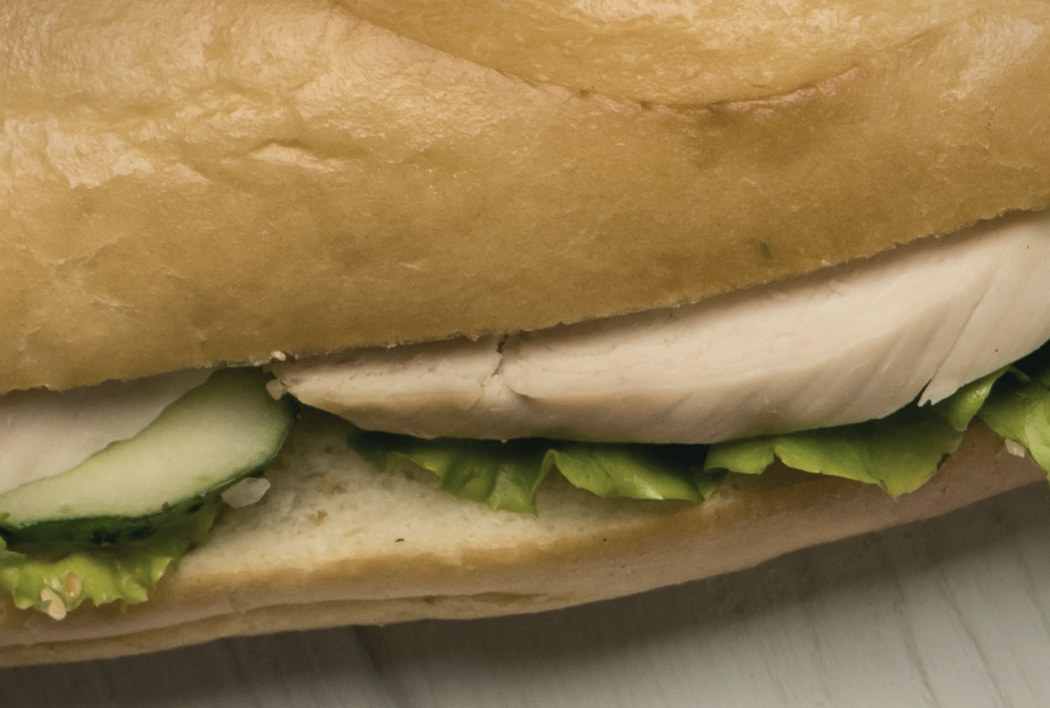
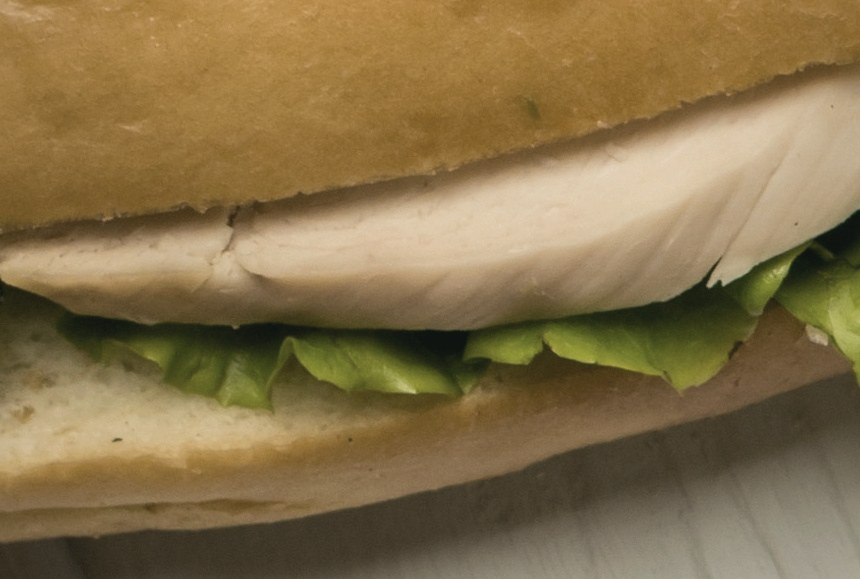
La foto del Turkey en la app, sin pepino
Dueño: «Quita pepino». La foto de Stock de la tarjeta se recortó para dejar
fuera el pepino (estaba en los dos bordes) y la vertical de baguette con queso
se retiró: ahora se compone desde la tarjeta, como la del Hoagie. Anotado en
FUENTES.md. Lo que dijo de las fotos del Tuna Melt y el Meatball, en los
aprendizajes de calidad y arte.

Claude-Session: https://claude.ai/code/session_01NCVgixMFGDjTdiWThGTz7g

diff --git a/img/fuente/FUENTES.md b/img/fuente/FUENTES.md
@@ -150,7 +150,7 @@ cambiarlas en cuanto haya foto propia.
 
 | archivo | producto | Adobe Stock | recorte aplicado al original | en qué NO calza con la receta |
 |---|---|---|---|---|
-| `sig10.jpg` | **Turkey** (SIG10) | `214459869` (6000×4000) | el sub de abajo a la izquierda, rotado −65.4° alrededor de (790, 3150) y recortado a (85, 2547)-(2235, 3995) | trae **pepino**; no se ven tomate, cebolla ni pimiento. Pan sub blanco, pavo en lonjas, lechuga y **sin queso**, como la receta |
+| `sig10.jpg` | **Turkey** (SIG10) | `214459869` (6000×4000) | el sub de abajo a la izquierda, rotado −65.4° alrededor de (790, 3150) y recortado a (85, 2547)-(2235, 3995); el 2026-10-16, recortado otra vez a (540, 300)-(1400, 880) de ese archivo para dejar fuera el pepino | **ya sin pepino** (dueño, 2026-10-16: «Quita pepino»: estaba en los dos bordes y quedó fuera del recorte); no se ven tomate, cebolla ni pimiento. Pan sub blanco, pavo en lonjas, lechuga y **sin queso**, como la receta |
 | `sig12.jpg` | **Tuna Melt** (SIG12) | `325349325` (7360×4912) | (600, 1900)-(4600, 4597) — deja fuera la rúcula, el limón y la salsa | es un tuna melt **abierto sobre pan tostado**, no en pan sub; el queso fundido se ve más blanco que un cheddar |
 
 Se descartó otra vez `591239613` (tuna melt con cheddar bien amarillo, pero con **tomate**, que
@@ -179,14 +179,14 @@ a 2400 px:
 |---|---|---|---|---|
 | `sig09_v.jpg` | **Philly Cheesesteak** (SIG09) | `394767354` (1571×2356 a 2400) | ancho completo, desde y=300, alto 2014 (ratio 0.78) | a sangre |
 | `sig02_v.jpg` | **Meatball Marinara** (SIG02) | `434960991` (1571×2356 a 2400) | ancho completo, desde y=300, alto 2014 | a sangre |
-| `sig10_v.jpg` | **Turkey** (SIG10) | `284405872` (2356×1571 a 2400) | (1130, 0)-(2356, 1571) — solo el sub, visto desde arriba | entera sobre su fondo |
+| ~~`sig10_v.jpg`~~ | **Turkey** (SIG10) | ~~`284405872`~~ | **retirada el 2026-10-16**: era una baguette enharinada con pepino y queso (la receta no lleva ninguno de los dos). Desde ese día la vertical del Turkey se compone con `sig10.jpg` entera, como la del Hoagie | — |
 
 - El Philly trae res, pimiento verde, cebolla y queso fundido: calza con la receta. Se ve el
   borde de un segundo sándwich igual a la derecha.
 - El Meatball trae queso blanco fundido y perejil encima; la receta lleva queso americano. Se
   ve la punta de un segundo sándwich igual arriba a la derecha.
-- ⚠ El Turkey trae **pepino** (igual que `sig10.jpg`) y el pavo queda tapado por el pan: sigue
-  siendo una aproximación hasta la foto propia.
+- El Turkey ya no trae pepino (2026-10-16): su vertical sale de `sig10.jpg`. Sigue siendo una
+  aproximación (no se ven tomate, cebolla ni pimiento) hasta la foto propia.
 - Hoagie, Tuna Melt, Classic Tuna y el secreto no tienen encuadre vertical propio: su vertical
   se compone con la misma `sigNN.jpg` puesta **entera** arriba, sobre la misma foto ampliada,
   desenfocada y oscurecida. No se encontró en la categoría gratuita un Hoagie ni un atún en

diff --git a/docs/marketing/equipo/aprendizajes/director-de-arte.md b/docs/marketing/equipo/aprendizajes/director-de-arte.md
@@ -19,3 +19,7 @@
 - **2026-10-16 · Las tres A.** El dueño eligió los conceptos más creativos de cada anuncio («Las tres
   A»): el titular detrás del pan (Philly), lo que te dijiste tachado (Meatball), la frase partida
   por el sándwich (Turkey). Cada anuncio con un recurso distinto, salido de su momento.
+- **2026-10-16 · Las fotos de la carta del lanzamiento.** Del Tuna Melt abierto sobre pan tostado
+  y del Meatball con otro queso, el dueño: «Tuna Melt consérvalo, está bien; Meatball igual». No
+  se retienen por eso. El Turkey sí: «Quita pepino» (un ingrediente que la receta no lleva). En
+  el lanzamiento va la foto fiel generada; en la app, la de Stock recortada sin el pepino.

diff --git a/docs/marketing/equipo/aprendizajes/calidad.md b/docs/marketing/equipo/aprendizajes/calidad.md
@@ -10,3 +10,7 @@
   lo que dijo quien lo lee (atributos personales de Meta): se cambió. La rodaja de limón hace que
   The Bloom parezca sangría: se borra. El pan del Turkey era una baguette, no el Classic // White:
   el dueño aprobó regenerar la foto («Regenerar en Figma»).
+- **2026-10-16 · Las fotos de la carta del lanzamiento.** Del Tuna Melt abierto sobre pan tostado
+  y del Meatball con otro queso, el dueño: «Tuna Melt consérvalo, está bien; Meatball igual». No
+  se retienen por eso. El Turkey sí: «Quita pepino» (un ingrediente que la receta no lleva). En
+  el lanzamiento va la foto fiel generada; en la app, la de Stock recortada sin el pepino.

diff --git a/docs/sesiones/2026-10-16.md b/docs/sesiones/2026-10-16.md
@@ -134,3 +134,7 @@
   Vitrina de apps generada en `docs/hechos/CARTA.md` (P56). Lanzamiento rehecho con el precio.
 - **La Casera** (fotos del dueño): pan de ~18–20 cm y relleno generoso a S/17. Es un comparable
   real; contra ella no se puede decir «más comida» sin balanza.
+- **Fotos del Turkey** (dueño: «Sí, foto fiel» · «Quita pepino»; del Tuna Melt y el Meatball:
+  «consérvalo, está bien»): el lanzamiento usa la foto fiel generada; la app, `sig10.jpg` recortada
+  sin el pepino, y la vertical de baguette con queso se retiró. La proyección del precio se leyó
+  como «el primer mes»: quedó el cuadro mes a mes en `docs/PROYECCION.md`.
